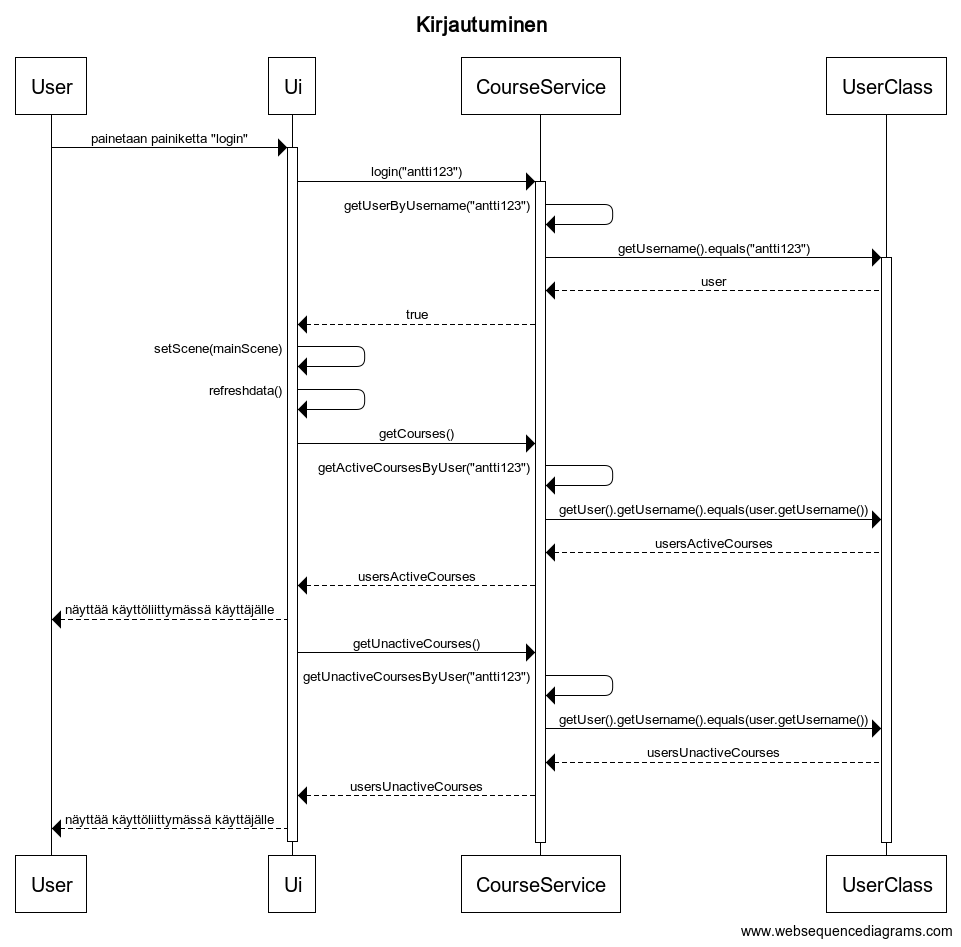
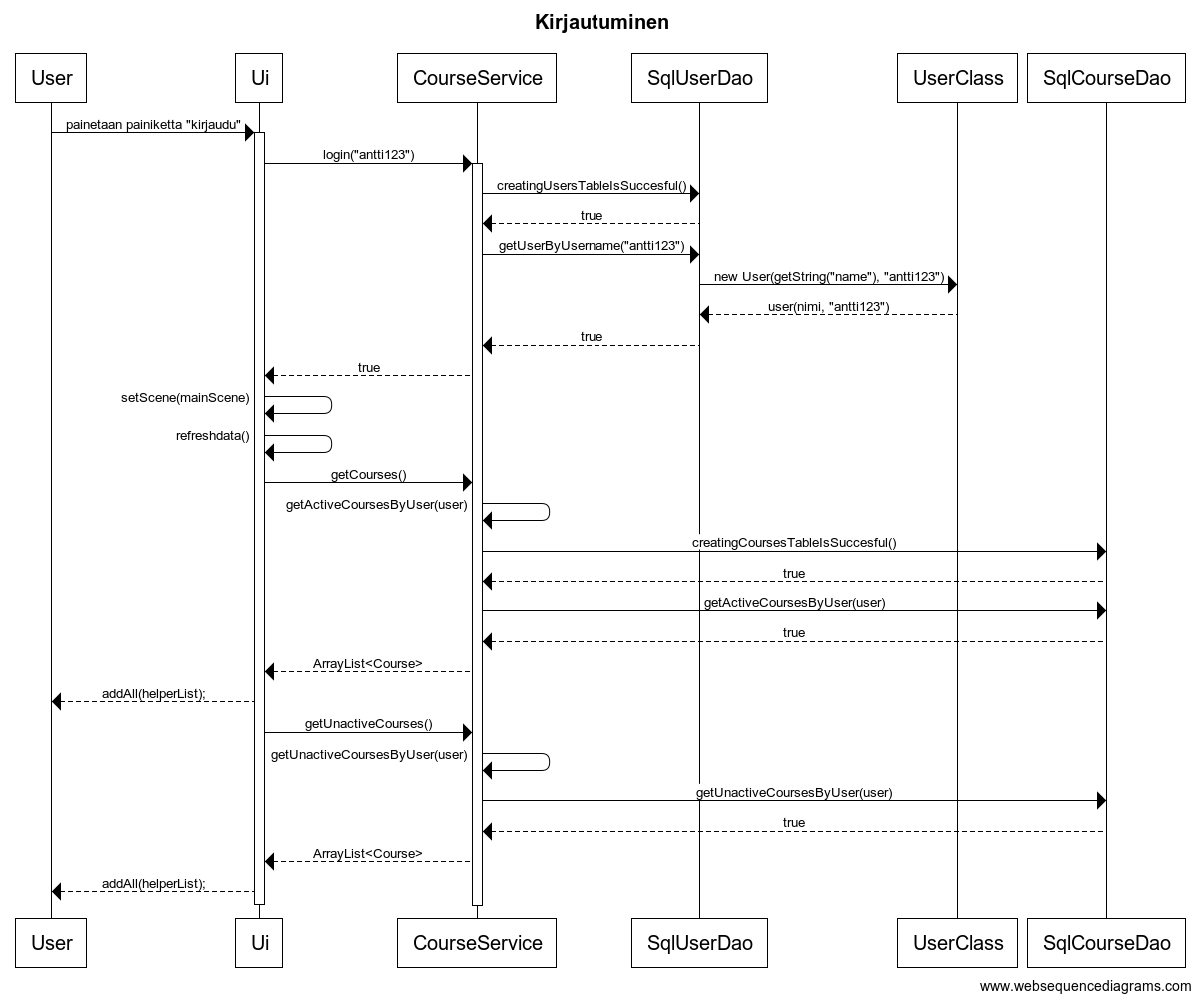
Päivitetty sekvenssikaavio kirjautumisesta

diff --git a/Opintorekisteri/src/test/java/dao/SQLCourseDaoTest.java b/Opintorekisteri/src/test/java/dao/SQLCourseDaoTest.java
@@ -5,10 +5,30 @@
  */
 package dao;
 
+import java.sql.*;
+import opintorekisteri.dao.SqlCourseDao;
+import org.junit.Before;
+
 /**
- *
- * @author aleksi
+ * Testiluokka kurssien SQL-operaatioille.
+ * @author Aleksi Suuronen
  */
 public class SQLCourseDaoTest {
+    
+    private Connection connection;
+    private String db = "jdbc:sqlite::memory:"; 
+    SqlCourseDao courseDao;
+    
+    
+    @Before
+    public void setUp() throws Exception {
+        connection = DriverManager.getConnection(db);
+        if (connection == null) {
+            System.out.println("Virhe yhteydessä!");
+        }
+        courseDao = new SqlCourseDao();
+        
+        
+    }
     
 }
